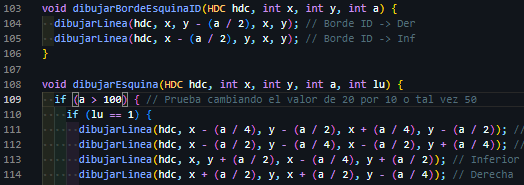
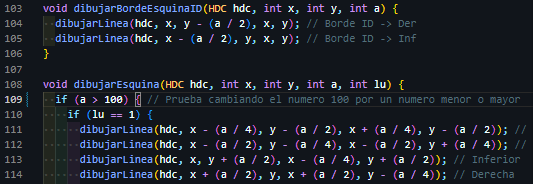
Practice

diff --git a/c++/contorno_fractal_t_square/contorno_fractal_t_square.cpp b/c++/contorno_fractal_t_square/contorno_fractal_t_square.cpp
@@ -106,7 +106,7 @@ void dibujarBordeEsquinaID(HDC hdc, int x, int y, int a) {
 }
 
 void dibujarEsquina(HDC hdc, int x, int y, int a, int lu) {
-  if (a > 6) { // Prueba cambiando el valor de 20 por 10 o tal vez 50
+  if (a > 100) { // Prueba cambiando el numero 100 por un numero menor o mayor
     if (lu == 1) {
       dibujarLinea(hdc, x - (a / 4), y - (a / 2), x + (a / 4), y - (a / 2)); // Superior
       dibujarLinea(hdc, x - (a / 2), y - (a / 4), x - (a / 2), y + (a / 4)); // Izquierda
